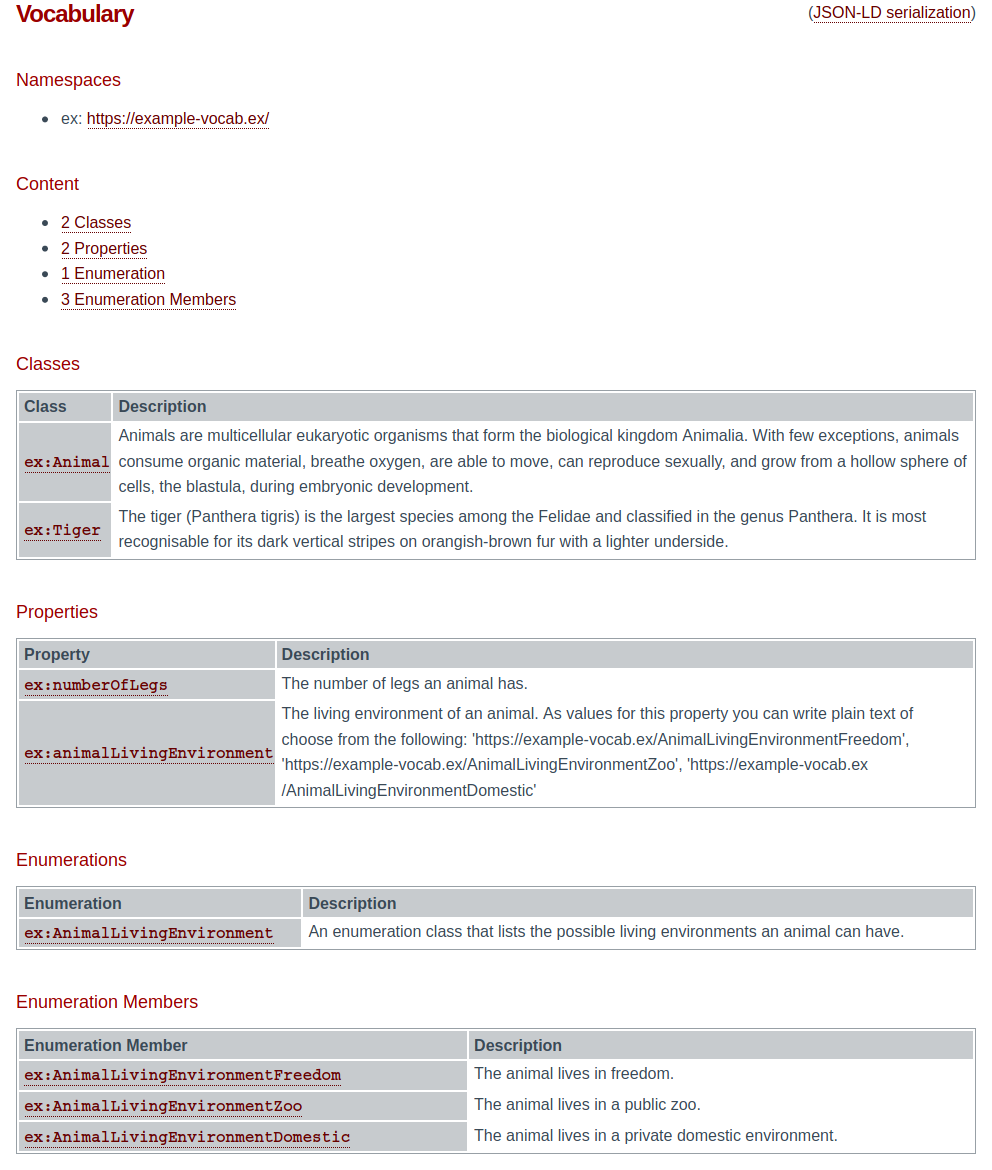
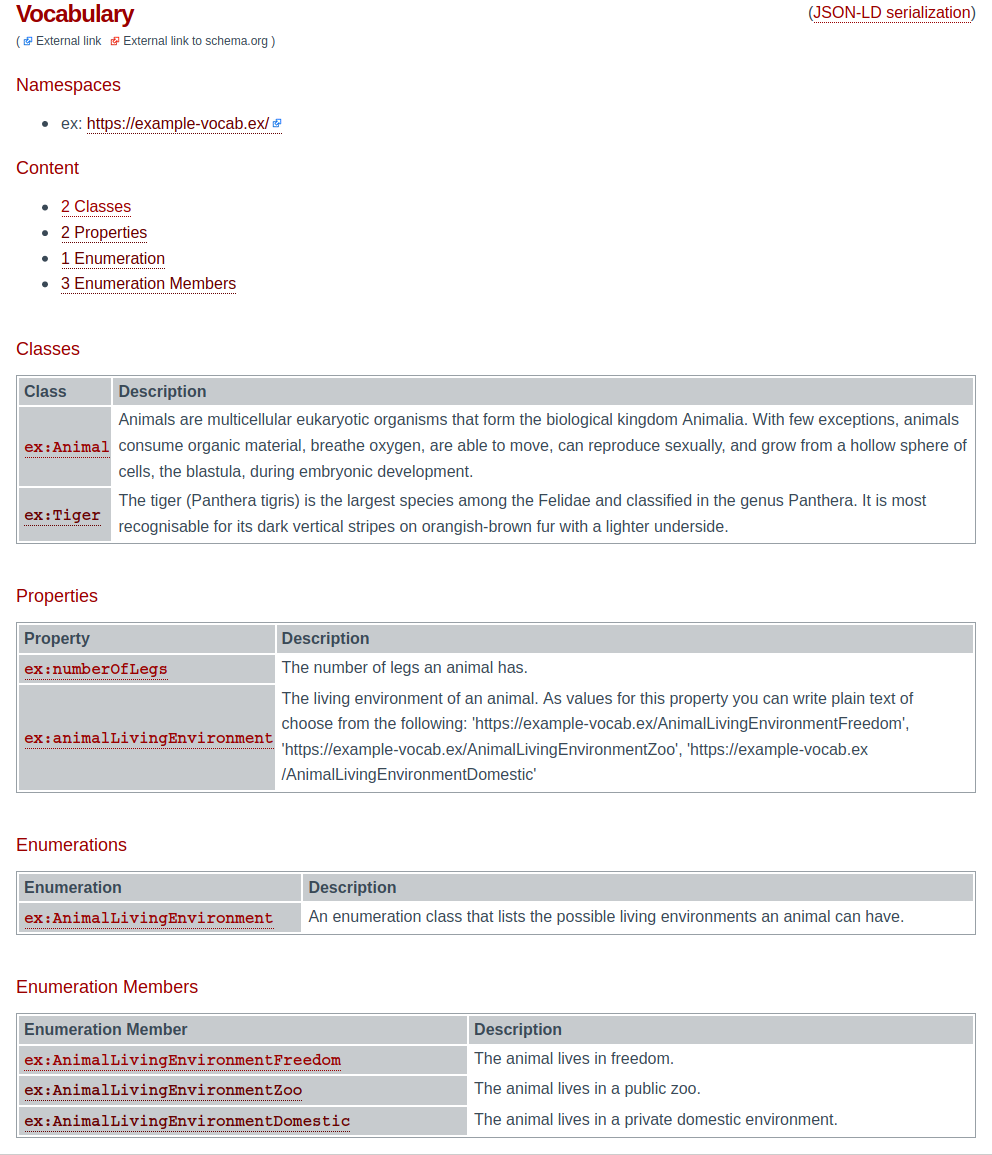
Version 1.0.2

diff --git a/dist/schema-org-vocab-browser.min.js b/dist/schema-org-vocab-browser.min.js
@@ -271,7 +271,7 @@ var nextTick=require("process/browser.js").nextTick,apply=Function.prototype.app
 "use strict";class EnumerationRenderer{constructor(e){this.browser=e,this.util=this.browser.util}render(){var e=this.util.getTypeStructure(this.browser.term),r=this.util.createHeader(e,"rdfs:subClassOf")+this.createEnumerationMembers()+this.util.createRangesOf(!0);this.browser.elem.innerHTML=this.util.createMainContent("rdfs:Class",r)}createEnumerationMembers(){var e=this.browser.term.getEnumerationMembers();return 0!==e.length?'An Enumeration with:<br><b><a id="enumbers" title="Link: #enumbers" href="#enumbers" class="clickableAnchor">Enumeration members</a></b><ul>'+e.map(e=>"<li>"+this.util.createLink(e)+"</li>").join("")+"</ul><br>":""}}module.exports=EnumerationRenderer;
 
 },{}],88:[function(require,module,exports){
-"use strict";class ListRenderer{constructor(e){this.browser=e,this.util=this.browser.util}render(){var e=this.createHeader()+this.createVocabsTable();this.browser.elem.innerHTML=this.util.createMainContent("schema:DataSet",e)}createHeader(){return"<h1>"+this.browser.list["schema:name"]+"</h1>"}createVocabsTable(){return this.util.createDefinitionTable(["Name","IRI","Author","Description"],this.createVocabsTbody(),{class:"supertype"})}createVocabsTbody(){return this.browser.list["schema:hasPart"].map(e=>this.util.createTableRow("http://vocab.sti2.at/ds/Vocabulary",e["@id"],"schema:name",this.util.createJSLink("voc",e["@id"].split("/").pop(),e["schema:name"]||"No Name"),this.createVocabsSideCols(e))).join("")}createVocabsSideCols(e){return'<td property="@id">'+this.util.createExternalLink(e["@id"])+'</td><td property="schema:author">'+(e["schema:author"]&&e["schema:author"]["schema:name"]||"")+'</td><td property="schema:description">'+(e["schema:description"]||"")+"</td>"}}module.exports=ListRenderer;
+"use strict";class ListRenderer{constructor(e){this.browser=e,this.util=this.browser.util}render(){var e=this.createHeader()+this.createVocabsTable();this.browser.elem.innerHTML=this.util.createMainContent("schema:DataSet",e)}createHeader(){return"<h1>"+this.browser.list["schema:name"]+"</h1>"+this.util.createExternalLinkLegend()}createVocabsTable(){return this.util.createDefinitionTable(["Name","IRI","Author","Description"],this.createVocabsTbody(),{class:"supertype"})}createVocabsTbody(){return this.browser.list["schema:hasPart"].map(e=>this.util.createTableRow("http://vocab.sti2.at/ds/Vocabulary",e["@id"],"schema:name",this.util.createJSLink("voc",e["@id"].split("/").pop(),e["schema:name"]||"No Name"),this.createVocabsSideCols(e))).join("")}createVocabsSideCols(e){return'<td property="@id">'+this.util.createExternalLink(e["@id"])+'</td><td property="schema:author">'+(e["schema:author"]&&e["schema:author"]["schema:name"]||"")+'</td><td property="schema:description">'+(e["schema:description"]||"")+"</td>"}}module.exports=ListRenderer;
 
 },{}],89:[function(require,module,exports){
 "use strict";class PropertyRenderer{constructor(e){this.browser=e,this.util=this.browser.util}render(){var e=this.createStartBreadcrumbs(),t=this.util.getTypeStructure(this.browser.term,"getSuperProperties"),r=this.util.createHeader(t,"rdfs:subPropertyOf",e)+this.createRanges()+this.createDomainIncludes()+this.createSuperproperties()+this.createSubproperties();this.browser.elem.innerHTML=this.util.createMainContent("rdf:Property",r)}createStartBreadcrumbs(){return this.util.createLink("schema:Thing")+" > "+this.util.createLink("schema:Property",{title:"Defined in section: meta.schema.org"})+" > "}createRanges(){var e=this.browser.term.getRanges(!1).map(e=>{var t={title:"The '"+this.browser.term.getIRI(!0)+"' property has values that include instances of the '"+e+"' type."};return this.util.createCodeLink(e,null,t,"rangeIncludes")}).join("<br>");return this.util.createDefinitionTable("Values expected to be one of these types","<td>"+e+"</td>")}createDomainIncludes(){var e=this.browser.term.getDomains(!1).map(e=>{var t={title:"The '"+this.browser.term.getIRI(!0)+"' property is used on the '"+e+"' type"};return this.util.createCodeLink(e,null,t,"domainIncludes")}).join("<br>");return this.util.createDefinitionTable("Used on these types","<td>"+e+"</td>")}createSuperproperties(){var e=this.browser.term.getSuperProperties(!1);return this.createRelatedProperties(e,"Super-properties")}createRelatedProperties(e,t){if(0!==e.length){var r=e.map(e=>{var t={title:e+": ''"+(this.browser.sdoAdapter.getProperty(e).getDescription()||"")+"''"};return this.util.createCodeLink(e,null,t)}).join("<br>");return this.util.createDefinitionTable(t,"<td>"+r+"</td>")}return""}createSubproperties(){var e=this.browser.term.getSubProperties(!1);return this.createRelatedProperties(e,"Sub-properties")}}module.exports=PropertyRenderer;
@@ -280,10 +280,10 @@ var nextTick=require("process/browser.js").nextTick,apply=Function.prototype.app
 "use strict";var _schemaOrgAdapter=_interopRequireDefault(require("schema-org-adapter")),_Util=_interopRequireDefault(require("./Util")),_ListRenderer=_interopRequireDefault(require("./ListRenderer")),_VocabRenderer=_interopRequireDefault(require("./VocabRenderer")),_ClassRenderer=_interopRequireDefault(require("./ClassRenderer")),_PropertyRenderer=_interopRequireDefault(require("./PropertyRenderer")),_EnumerationRenderer=_interopRequireDefault(require("./EnumerationRenderer")),_EnumerationMemberRenderer=_interopRequireDefault(require("./EnumerationMemberRenderer")),_DataTypeRenderer=_interopRequireDefault(require("./DataTypeRenderer"));function _interopRequireDefault(e){return e&&e.__esModule?e:{default:e}}function asyncGeneratorStep(e,r,t,n,a,i,s){try{var o=e[i](s),d=o.value}catch(e){return void t(e)}o.done?r(d):Promise.resolve(d).then(n,a)}function _asyncToGenerator(e){return function(){var r=this,t=arguments;return new Promise(function(n,a){var i=e.apply(r,t);function s(e){asyncGeneratorStep(i,n,a,s,o,"next",e)}function o(e){asyncGeneratorStep(i,n,a,s,o,"throw",e)}s(void 0)})}}var BROWSER_TYPES={VOCAB:"VOCAB",LIST:"LIST"};class SDOVocabBrowser{constructor(e,r){var t=this,n=arguments.length>2&&void 0!==arguments[2]?arguments[2]:BROWSER_TYPES.VOCAB;this.elem=e,this.vocabOrList=r,this.type=n,this.util=new _Util.default(this),this.listRenderer=new _ListRenderer.default(this),this.vocabRenderer=new _VocabRenderer.default(this),this.classRenderer=new _ClassRenderer.default(this),this.propertyRenderer=new _PropertyRenderer.default(this),this.enumerationRenderer=new _EnumerationRenderer.default(this),this.enumerationMemberRenderer=new _EnumerationMemberRenderer.default(this),this.dataTypeRenderer=new _DataTypeRenderer.default(this),window.addEventListener("popstate",_asyncToGenerator(function*(){yield t.render()}))}render(){var e=this;return _asyncToGenerator(function*(){if(e.elem.innerHTML='<img src="https://raw.githubusercontent.com/semantifyit/schema-org-vocab-browser/main/images/loading.gif" alt="Loading Animation" style="margin-top: 6px">',yield e.init(),e.isListRendering())e.listRenderer.render();else if(e.isVocabRendering()){var r=new URLSearchParams(window.location.search).get("format");r&&"jsonld"===r?e.vocabRenderer.renderJsonld():e.vocabRenderer.render()}else e.isTermRendering()&&e.renderTerm();e.addJSLinkEventListener(),document.body.scrollTop=document.documentElement.scrollTop=0})()}init(){var e=this;return _asyncToGenerator(function*(){e.listNeedsInit()&&(yield e.initList()),e.vocabNeedsInit()&&(yield e.initVocab())})()}listNeedsInit(){return this.type===BROWSER_TYPES.LIST&&!this.list}initList(){var e=this;return _asyncToGenerator(function*(){e.list=yield e.util.parseToObject(e.vocabOrList)})()}vocabNeedsInit(){var e=new URLSearchParams(window.location.search).get("voc");return this.type===BROWSER_TYPES.LIST&&e&&e!==this.vocUID||this.type===BROWSER_TYPES.VOCAB&&!this.vocab}initVocab(){var e=this;return _asyncToGenerator(function*(){if(e.type===BROWSER_TYPES.VOCAB)e.vocab=yield e.util.parseToObject(e.vocabOrList);else if(e.type===BROWSER_TYPES.LIST){var r=new URLSearchParams(window.location.search);for(var t of(e.vocUID=r.get("voc"),e.list["schema:hasPart"])){var n=t["@id"];if(n.split("/").pop()===e.vocUID){e.vocab=yield e.util.parseToObject(n),e.vocName=t["schema:name"];break}}}yield e.initSDOAdapter()})()}initSDOAdapter(){var e=this;return _asyncToGenerator(function*(){e.sdoAdapter=new _schemaOrgAdapter.default;var r=yield e.sdoAdapter.constructSDOVocabularyURL("latest");yield e.sdoAdapter.addVocabularies([r,e.vocab]),e.namespaces=e.sdoAdapter.getVocabularies(),delete e.namespaces.schema;var t=Object.keys(e.namespaces);e.classes=e.sdoAdapter.getListOfClasses({fromVocabulary:t}),e.properties=e.sdoAdapter.getListOfProperties({fromVocabulary:t}),e.enumerations=e.sdoAdapter.getListOfEnumerations({fromVocabulary:t}),e.enumerationMembers=e.sdoAdapter.getListOfEnumerationMembers({fromVocabulary:t}),e.dataTypes=e.sdoAdapter.getListOfDataTypes({fromVocabulary:t})})()}isListRendering(){var e=new URLSearchParams(window.location.search);return this.type===BROWSER_TYPES.LIST&&!e.get("voc")}isVocabRendering(){var e=new URLSearchParams(window.location.search);return this.type===BROWSER_TYPES.LIST&&e.get("voc")&&!e.get("term")||this.type===BROWSER_TYPES.VOCAB&&!e.get("term")}isTermRendering(){return null!==new URLSearchParams(window.location.search).get("term")}renderTerm(){var e=new URLSearchParams(window.location.search);switch(this.term=this.sdoAdapter.getTerm(e.get("term")),this.term.getTermType()){case"rdfs:Class":this.classRenderer.render();break;case"rdf:Property":this.propertyRenderer.render();break;case"schema:Enumeration":this.enumerationRenderer.render();break;case"soa:EnumerationMember":this.enumerationMemberRenderer.render();break;case"schema:DataType":this.dataTypeRenderer.render()}}addJSLinkEventListener(){var e=this,r=this.elem.getElementsByClassName("a-js-link"),t=function(r){r.addEventListener("click",function(){var t=_asyncToGenerator(function*(t){t.ctrlKey?window.open(r.href):(history.pushState(null,null,r.href),yield e.render())});return function(e){return t.apply(this,arguments)}}())};for(var n of r)t(n)}}module.exports=SDOVocabBrowser;
 
 },{"./ClassRenderer":84,"./DataTypeRenderer":85,"./EnumerationMemberRenderer":86,"./EnumerationRenderer":87,"./ListRenderer":88,"./PropertyRenderer":89,"./Util":91,"./VocabRenderer":92,"schema-org-adapter":78}],91:[function(require,module,exports){
-"use strict";function asyncGeneratorStep(e,t,r,a,s,n,i){try{var o=e[n](i),c=o.value}catch(e){return void r(e)}o.done?t(c):Promise.resolve(c).then(a,s)}function _asyncToGenerator(e){return function(){var t=this,r=arguments;return new Promise(function(a,s){var n=e.apply(t,r);function i(e){asyncGeneratorStep(n,a,s,i,o,"next",e)}function o(e){asyncGeneratorStep(n,a,s,i,o,"throw",e)}i(void 0)})}}class Util{constructor(e){this.browser=e}parseToObject(e){var t=this;return _asyncToGenerator(function*(){var r;return t.isString(e)?(r=t.isValidUrl(e)?yield t.getJsonld(e):e,JSON.parse(r)):e})()}isString(e){return"string"==typeof e||e instanceof String}isValidUrl(e){try{new URL(e)}catch(e){return!1}return!0}getJsonld(e){return new Promise(function(t,r){var a=new XMLHttpRequest;a.open("GET",e),a.setRequestHeader("Accept","application/ld+json"),a.onload=function(){this.status>=200&&this.status<300?t(a.response):r({status:this.status,statusText:a.statusText})},a.onerror=function(){r({status:this.status,statusText:a.statusText})},a.send()})}createIriWithQueryParam(e,t){var r=new URLSearchParams(window.location.search);t&&""!==t?r.set(e,t):r.delete(e);var a=r.toString();return window.location.protocol+"//"+(window.location.host?window.location.host:"")+window.location.pathname+(""!==a?"?"+a:"")}createTableRow(e,t,r,a,s){var n=arguments.length>5&&void 0!==arguments[5]?arguments[5]:null;return'<tr typeof="'+e+'" resource="'+t+'">'+this.createMainCol(r,a,n)+s+"</tr>"}createMainCol(e,t){var r=arguments.length>2&&void 0!==arguments[2]?arguments[2]:null;return"<th"+(r?' class="'+r+'"':"")+' scope="row">'+this.createCodeLink(t,{property:e})+"</th>"}createCodeLink(e){var t=arguments.length>1&&void 0!==arguments[1]?arguments[1]:null,r=arguments.length>2&&void 0!==arguments[2]?arguments[2]:null,a=arguments.length>3&&void 0!==arguments[3]?arguments[3]:null;return"<code"+this.createHtmlAttr(t)+">"+this.createFullLink(e,r,a)+"</code>"}createFullLink(e,t,r){var a=null;try{a=this.browser.sdoAdapter.getTerm(e)}catch(e){}return""+(r?this.createSemanticLink(r,e):"")+(a?this.createLink(e,t):e)}createJSLink(e,t){var r=arguments.length>2&&void 0!==arguments[2]?arguments[2]:null,a=arguments.length>3&&void 0!==arguments[3]?arguments[3]:null,s=this.createIriWithQueryParam(e,t);return'<a class="a-js-link" href="'+this.escHtml(s)+'" onclick="return false;"'+this.createHtmlAttr(a)+">"+(r?this.escHtml(r):this.escHtml(t))+"</a>"}escHtml(e){return e.replace(/&/g,"&amp;").replace(/</g,"&lt;").replace(/>/g,"&gt;").replace(/"/g,"&quot;").replace(/'/g,"&#039;")}createHtmlAttr(e){return e?Object.entries(e).map(e=>" "+this.escHtml(e[0])+'="'+this.escHtml(e[1])+'"').join(""):""}createExternalLink(e){var t=arguments.length>1&&void 0!==arguments[1]?arguments[1]:null,r=arguments.length>2&&void 0!==arguments[2]?arguments[2]:null;return'<a href="'+this.escHtml(e)+'" target="_blank"'+this.createHtmlAttr(r)+">"+(t?this.prettyPrintIri(t):this.prettyPrintIri(e))+"</a>"}prettyPrintIri(e){return e.startsWith("schema:")?e.substring("schema:".length):this.escHtml(e)}createMainContent(e,t){return'<div id="mainContent" vocab="http://schema.org/" typeof="'+e+'" resource="'+window.location+'">'+t+"</div>"}underscore(e){return e.replace(/ /g,"_")}getTypeStructure(e){var t=arguments.length>1&&void 0!==arguments[1]?arguments[1]:"getSuperClasses",r=e[t](!1);if(0===r.length)return[[e.getIRI(!0)]];var a=[];return r.forEach(r=>{var s=this.browser.sdoAdapter.getTerm(r);this.getTypeStructure(s,t).forEach(t=>{t.push(e.getIRI(!0)),a.push(t)})}),a}createHeader(e,t){var r=arguments.length>2&&void 0!==arguments[2]?arguments[2]:"",a=arguments.length>3&&void 0!==arguments[3]?arguments[3]:"",s=this.browser.term;return'<span style="float: right;">'+(this.browser.vocName?"(from Vocabulary: "+this.createJSLink("term",null,this.browser.vocName)+")":"(go to "+this.createJSLink("term",null,"Vocabulary")+")")+'</span><h1 property="rdfs:label" class="page-title">'+s.getIRI(!0)+"</h1>"+this.createTypeStructureBreadcrumbs(e,t,r,a)+'</h4><div property="rdfs:comment">'+(s.getDescription()||"")+"<br><br></div>"}createTypeStructureBreadcrumbs(e,t,r,a){return"<h4>"+e.map(e=>'<span class="breadcrumbs">'+r+e.map((r,s)=>{var n="";return(""===a&&s+2===e.length||""!==a&&s+1===e.length)&&(n+=this.createSemanticLink(t,r)),n+=this.createLink(r)}).join(" > ")+a+"</span>").join("<br>")+"</h4>"}createSemanticLink(e,t){return'<link property="'+this.escHtml(e)+'" href="'+this.escHtml(this.createHref(t))+'">'}createHref(e){return this.isTermOfVocab(e)?this.createIriWithQueryParam("term",e):this.browser.sdoAdapter.getTerm(e).getIRI()}isTermOfVocab(e){return this.browser.vocab&&(this.browser.classes.includes(e)||this.browser.properties.includes(e)||this.browser.enumerations.includes(e)||this.browser.enumerationMembers.includes(e)||this.browser.dataTypes.includes(e))}createLink(e){var t=arguments.length>1&&void 0!==arguments[1]?arguments[1]:null;return this.isTermOfVocab(e)?this.createJSLink("term",e,null,t):this.createExternalLink(this.createHref(e),e,t)}createPropertyTableRow(e){var t=arguments.length>1&&void 0!==arguments[1]&&arguments[1];return this.createTableRow("rdfs:Property",this.createHref(e),"rdfs:label",this.createLink(e),this.createPropertySideCols(e,t),"prop-name")}createPropertySideCols(e,t){var r=this.browser.sdoAdapter.getProperty(e);return'<td class="prop-etc">'+this.createPropertyRange(r,t)+'</td><td class="prop-desc" property="rdfs:comment">'+(r.getDescription()||"")+"</td>"}createPropertyRange(e,t){var r="";return t||(r=e.getRanges(!1).map(e=>this.createSemanticLink("rangeIncludes",e)+this.createLink(e)).join("&nbsp; or <br>")),r+e.getDomains(!1).map(e=>this.createSemanticLink("domainIncludes",e)+(t?this.createLink(e):"")).join(t?"&nbsp; or <br>":"")}createDefinitionTable(e,t){var r=arguments.length>2&&void 0!==arguments[2]?arguments[2]:null;return Array.isArray(e)||(e=[e]),Array.isArray(t)||(t=[t]),'<table class="definition-table"><thead><tr>'+e.map(e=>"<th>"+e+"</th>").join("")+"</tr></thead><tbody"+this.createHtmlAttr(r)+">"+(t[0].startsWith("<tr")?t.join(""):t.map(e=>"<tr>"+e+"</tr>").join(""))+"</tbody></table>"}createRangesOf(){var e=arguments.length>0&&void 0!==arguments[0]&&arguments[0],t=this.browser.term.isRangeOf(!1);if(0!==t.length){var r=t.map(e=>this.createPropertyTableRow(e,!0));return'<div id="incoming">Instances of '+this.createLink(this.browser.term.getIRI(!0))+(e?" and its enumeration members or subtypes":"")+" may appear as a value for the following properties</div><br>"+this.createDefinitionTable(["Property","On Types","Description"],r)}return""}}module.exports=Util;
+"use strict";function asyncGeneratorStep(e,t,r,n,a,i,s){try{var o=e[i](s),c=o.value}catch(e){return void r(e)}o.done?t(c):Promise.resolve(c).then(n,a)}function _asyncToGenerator(e){return function(){var t=this,r=arguments;return new Promise(function(n,a){var i=e.apply(t,r);function s(e){asyncGeneratorStep(i,n,a,s,o,"next",e)}function o(e){asyncGeneratorStep(i,n,a,s,o,"throw",e)}s(void 0)})}}class Util{constructor(e){this.browser=e}parseToObject(e){var t=this;return _asyncToGenerator(function*(){var r;return t.isString(e)?(r=t.isValidUrl(e)?yield t.getJsonld(e):e,JSON.parse(r)):e})()}isString(e){return"string"==typeof e||e instanceof String}isValidUrl(e){try{new URL(e)}catch(e){return!1}return!0}getJsonld(e){return new Promise(function(t,r){var n=new XMLHttpRequest;n.open("GET",e),n.setRequestHeader("Accept","application/ld+json"),n.onload=function(){this.status>=200&&this.status<300?t(n.response):r({status:this.status,statusText:n.statusText})},n.onerror=function(){r({status:this.status,statusText:n.statusText})},n.send()})}createIriWithQueryParam(e,t){var r=new URLSearchParams(window.location.search);t&&""!==t?r.set(e,t):r.delete(e);var n=r.toString();return window.location.protocol+"//"+(window.location.host?window.location.host:"")+window.location.pathname+(""!==n?"?"+n:"")}createTableRow(e,t,r,n,a){var i=arguments.length>5&&void 0!==arguments[5]?arguments[5]:null;return'<tr typeof="'+e+'" resource="'+t+'">'+this.createMainCol(r,n,i)+a+"</tr>"}createMainCol(e,t){var r=arguments.length>2&&void 0!==arguments[2]?arguments[2]:null;return"<th"+(r?' class="'+r+'"':"")+' scope="row">'+this.createCodeLink(t,{property:e})+"</th>"}createCodeLink(e){var t=arguments.length>1&&void 0!==arguments[1]?arguments[1]:null,r=arguments.length>2&&void 0!==arguments[2]?arguments[2]:null,n=arguments.length>3&&void 0!==arguments[3]?arguments[3]:null;return"<code"+this.createHtmlAttr(t)+">"+this.createFullLink(e,r,n)+"</code>"}createFullLink(e,t,r){var n=null;try{n=this.browser.sdoAdapter.getTerm(e)}catch(e){}return""+(r?this.createSemanticLink(r,e):"")+(n?this.createLink(e,t):e)}createJSLink(e,t){var r=arguments.length>2&&void 0!==arguments[2]?arguments[2]:null,n=arguments.length>3&&void 0!==arguments[3]?arguments[3]:null,a=this.createIriWithQueryParam(e,t);return'<a class="a-js-link" href="'+this.escHtml(a)+'" onclick="return false;"'+this.createHtmlAttr(n)+">"+(r?this.escHtml(r):this.escHtml(t))+"</a>"}escHtml(e){return e.replace(/&/g,"&amp;").replace(/</g,"&lt;").replace(/>/g,"&gt;").replace(/"/g,"&quot;").replace(/'/g,"&#039;")}createHtmlAttr(e){return e?Object.entries(e).map(e=>" "+this.escHtml(e[0])+'="'+this.escHtml(e[1])+'"').join(""):""}createExternalLink(e){var t=arguments.length>1&&void 0!==arguments[1]?arguments[1]:null,r=arguments.length>2&&void 0!==arguments[2]?arguments[2]:null,n=" "+this.createExternalLinkStyle(e);return r?r.hasOwnProperty("style")?r.style=r.style+n:r.style=n:r={style:n},'<a href="'+this.escHtml(e)+'" target="_blank"'+this.createHtmlAttr(r)+">"+(t?this.prettyPrintIri(t):this.prettyPrintIri(e))+"</a>"}createExternalLinkStyle(e){var t="background-position: center right; background-repeat: no-repeat; background-size: 10px 10px; padding-right: 13px; ";return-1===e.indexOf("https://schema.org")&&-1===e.indexOf("http://schema.org")?t+="background-image: url(https://raw.githubusercontent.com/semantifyit/schema-org-vocab-browser/main/images/external-link-icon-blue.png);":t+="background-image: url(https://raw.githubusercontent.com/semantifyit/schema-org-vocab-browser/main/images/external-link-icon-red.png);",t}prettyPrintIri(e){return e.startsWith("schema:")?e.substring("schema:".length):this.escHtml(e)}createMainContent(e,t){return'<div id="mainContent" vocab="http://schema.org/" typeof="'+e+'" resource="'+window.location+'">'+t+"</div>"}underscore(e){return e.replace(/ /g,"_")}getTypeStructure(e){var t=arguments.length>1&&void 0!==arguments[1]?arguments[1]:"getSuperClasses",r=e[t](!1);if(0===r.length)return[[e.getIRI(!0)]];var n=[];return r.forEach(r=>{var a=this.browser.sdoAdapter.getTerm(r);this.getTypeStructure(a,t).forEach(t=>{t.push(e.getIRI(!0)),n.push(t)})}),n}createHeader(e,t){var r=arguments.length>2&&void 0!==arguments[2]?arguments[2]:"",n=arguments.length>3&&void 0!==arguments[3]?arguments[3]:"",a=this.browser.term;return'<span style="float: right;">'+(this.browser.vocName?"(from Vocabulary: "+this.createJSLink("term",null,this.browser.vocName)+")":"(go to "+this.createJSLink("term",null,"Vocabulary")+")")+'</span><h1 property="rdfs:label" class="page-title">'+a.getIRI(!0)+"</h1>"+this.createExternalLinkLegend()+this.createTypeStructureBreadcrumbs(e,t,r,n)+'</h4><div property="rdfs:comment">'+(a.getDescription()||"")+"<br><br></div>"}createExternalLinkLegend(){return'<p style="font-size: 12px; margin-top: 0">(<span style="'+("margin-right: 3px; "+this.createExternalLinkStyle(""))+'"></span>External link<span style="'+("margin-right: 3px; "+this.createExternalLinkStyle("https://schema.org")+" margin-left: 6px;")+'"></span>External link to schema.org )</p>'}createTypeStructureBreadcrumbs(e,t,r,n){return"<h4>"+e.map(e=>'<span class="breadcrumbs">'+r+e.map((r,a)=>{var i="";return(""===n&&a+2===e.length||""!==n&&a+1===e.length)&&(i+=this.createSemanticLink(t,r)),i+=this.createLink(r)}).join(" > ")+n+"</span>").join("<br>")+"</h4>"}createSemanticLink(e,t){return'<link property="'+this.escHtml(e)+'" href="'+this.escHtml(this.createHref(t))+'">'}createHref(e){return this.isTermOfVocab(e)?this.createIriWithQueryParam("term",e):this.browser.sdoAdapter.getTerm(e).getIRI()}isTermOfVocab(e){return this.browser.vocab&&(this.browser.classes.includes(e)||this.browser.properties.includes(e)||this.browser.enumerations.includes(e)||this.browser.enumerationMembers.includes(e)||this.browser.dataTypes.includes(e))}createLink(e){var t=arguments.length>1&&void 0!==arguments[1]?arguments[1]:null;return this.isTermOfVocab(e)?this.createJSLink("term",e,null,t):this.createExternalLink(this.createHref(e),e,t)}createPropertyTableRow(e){var t=arguments.length>1&&void 0!==arguments[1]&&arguments[1];return this.createTableRow("rdfs:Property",this.createHref(e),"rdfs:label",this.createLink(e),this.createPropertySideCols(e,t),"prop-name")}createPropertySideCols(e,t){var r=this.browser.sdoAdapter.getProperty(e);return'<td class="prop-etc">'+this.createPropertyRange(r,t)+'</td><td class="prop-desc" property="rdfs:comment">'+(r.getDescription()||"")+"</td>"}createPropertyRange(e,t){var r="";return t||(r=e.getRanges(!1).map(e=>this.createSemanticLink("rangeIncludes",e)+this.createLink(e)).join("&nbsp; or <br>")),r+e.getDomains(!1).map(e=>this.createSemanticLink("domainIncludes",e)+(t?this.createLink(e):"")).join(t?"&nbsp; or <br>":"")}createDefinitionTable(e,t){var r=arguments.length>2&&void 0!==arguments[2]?arguments[2]:null;return Array.isArray(e)||(e=[e]),Array.isArray(t)||(t=[t]),'<table class="definition-table"><thead><tr>'+e.map(e=>"<th>"+e+"</th>").join("")+"</tr></thead><tbody"+this.createHtmlAttr(r)+">"+(t[0].startsWith("<tr")?t.join(""):t.map(e=>"<tr>"+e+"</tr>").join(""))+"</tbody></table>"}createRangesOf(){var e=arguments.length>0&&void 0!==arguments[0]&&arguments[0],t=this.browser.term.isRangeOf(!1);if(0!==t.length){var r=t.map(e=>this.createPropertyTableRow(e,!0));return'<div id="incoming">Instances of '+this.createLink(this.browser.term.getIRI(!0))+(e?" and its enumeration members or subtypes":"")+" may appear as a value for the following properties</div><br>"+this.createDefinitionTable(["Property","On Types","Description"],r)}return""}}module.exports=Util;
 
 },{}],92:[function(require,module,exports){
-"use strict";var TYPES_PLURAL={Class:"Classes",Property:"Properties",Enumeration:"Enumerations","Enumeration Member":"Enumeration Members","Data Type":"Data Types"};class VocabRenderer{constructor(e){this.browser=e,this.util=this.browser.util}renderJsonld(){this.browser.elem.innerHTML='<pre style="font-size: medium; background: none; text-align: left; width: auto; padding: 0; overflow: visible; color: rgb(0, 0, 0); line-height: normal; display: block; font-family: monospace; margin: 1em 0; word-wrap: break-word; white-space: pre-wrap;">'+JSON.stringify(this.browser.vocab,null,2)+"</pre>"}render(){var e=this.createHeading()+this.createContentSection()+this.createSection(this.browser.classes,"Class")+this.createSection(this.browser.properties,"Property")+this.createSection(this.browser.enumerations,"Enumeration")+this.createSection(this.browser.enumerationMembers,"Enumeration Member")+this.createSection(this.browser.dataTypes,"Data Type");this.browser.elem.innerHTML=this.util.createMainContent("schema:DataSet",e)}createHeading(){return'<span style="float: right;">('+this.util.createJSLink("format","jsonld","JSON-LD serialization")+(this.browser.list?" | from List: "+this.util.createJSLink("voc",null,this.browser.list["schema:name"]):"")+")</span><h1>"+(this.browser.vocName?this.browser.vocName:"Vocabulary")+"</h1><h2>Namespaces</h2><ul>"+Object.entries(this.browser.namespaces).map(e=>"<li>"+e[0]+": "+this.util.createExternalLink(e[1])+"</li>").join("")+"</ul>"}createContentSection(){return"<h2>Content</h2><ul>"+this.createContentListElement(this.browser.classes,"Class")+this.createContentListElement(this.browser.properties,"Property")+this.createContentListElement(this.browser.enumerations,"Enumeration")+this.createContentListElement(this.browser.enumerationMembers,"Enumeration Member")+this.createContentListElement(this.browser.dataTypes,"Data Type")+"</ul>"}createContentListElement(e,t){if(0!==e.length){var r=TYPES_PLURAL[t];return'<li><a href="#'+this.util.underscore(r)+'">'+e.length+" "+(1===e.length?t:r)+"</a></li>"}return""}createSection(e,t){if(0!==e.length){var r=TYPES_PLURAL[t];return'<h2 id="'+this.util.underscore(r)+'">'+r+"</h2>"+this.util.createDefinitionTable([t,"Description"],this.createSectionTbody(e),{class:"supertype"})}return""}createSectionTbody(e){return e.map(e=>{var t=this.browser.sdoAdapter.getTerm(e);return this.util.createTableRow(t.getTermType(),this.util.createIriWithQueryParam("term",e),"@id",this.util.createJSLink("term",e),'<td property="rdfs:comment">'+(t.getDescription()||"")+"</td>")}).join("")}}module.exports=VocabRenderer;
+"use strict";var TYPES_PLURAL={Class:"Classes",Property:"Properties",Enumeration:"Enumerations","Enumeration Member":"Enumeration Members","Data Type":"Data Types"};class VocabRenderer{constructor(e){this.browser=e,this.util=this.browser.util}renderJsonld(){this.browser.elem.innerHTML='<pre style="font-size: medium; background: none; text-align: left; width: auto; padding: 0; overflow: visible; color: rgb(0, 0, 0); line-height: normal; display: block; font-family: monospace; margin: 1em 0; word-wrap: break-word; white-space: pre-wrap;">'+JSON.stringify(this.browser.vocab,null,2)+"</pre>"}render(){var e=this.createHeading()+this.createNamespaces()+this.createContentSection()+this.createSection(this.browser.classes,"Class")+this.createSection(this.browser.properties,"Property")+this.createSection(this.browser.enumerations,"Enumeration")+this.createSection(this.browser.enumerationMembers,"Enumeration Member")+this.createSection(this.browser.dataTypes,"Data Type");this.browser.elem.innerHTML=this.util.createMainContent("schema:DataSet",e)}createHeading(){return'<span style="float: right;">('+this.util.createJSLink("format","jsonld","JSON-LD serialization")+(this.browser.list?" | from List: "+this.util.createJSLink("voc",null,this.browser.list["schema:name"]):"")+")</span><h1>"+(this.browser.vocName?this.browser.vocName:"Vocabulary")+"</h1>"+this.util.createExternalLinkLegend()}createNamespaces(){return'<h2 style="margin: revert;">Namespaces</h2><ul>'+Object.entries(this.browser.namespaces).map(e=>"<li>"+e[0]+": "+this.util.createExternalLink(e[1])+"</li>").join("")+"</ul>"}createContentSection(){return'<h2 style="margin: revert;">Content</h2><ul>'+this.createContentListElement(this.browser.classes,"Class")+this.createContentListElement(this.browser.properties,"Property")+this.createContentListElement(this.browser.enumerations,"Enumeration")+this.createContentListElement(this.browser.enumerationMembers,"Enumeration Member")+this.createContentListElement(this.browser.dataTypes,"Data Type")+"</ul>"}createContentListElement(e,t){if(0!==e.length){var r=TYPES_PLURAL[t];return'<li><a href="#'+this.util.underscore(r)+'">'+e.length+" "+(1===e.length?t:r)+"</a></li>"}return""}createSection(e,t){if(0!==e.length){var r=TYPES_PLURAL[t];return'<h2 id="'+this.util.underscore(r)+'">'+r+"</h2>"+this.util.createDefinitionTable([t,"Description"],this.createSectionTbody(e),{class:"supertype"})}return""}createSectionTbody(e){return e.map(e=>{var t=this.browser.sdoAdapter.getTerm(e);return this.util.createTableRow(t.getTermType(),this.util.createIriWithQueryParam("term",e),"@id",this.util.createJSLink("term",e),'<td property="rdfs:comment">'+(t.getDescription()||"")+"</td>")}).join("")}}module.exports=VocabRenderer;
 
 },{}]},{},[90])(90)
 });

diff --git a/dist/schema-org-vocab-browser.js b/dist/schema-org-vocab-browser.js
@@ -20741,7 +20741,7 @@ class ListRenderer {
 
 
   createHeader() {
-    return '<h1>' + this.browser.list['schema:name'] + '</h1>';
+    return '' + '<h1>' + this.browser.list['schema:name'] + '</h1>' + this.util.createExternalLinkLegend();
   }
   /**
    * Create HTML table for the vocabularies of the List.
@@ -21479,7 +21479,7 @@ class Util {
     }
   }
   /**
-   * Create a HTML link to on external IRI.
+   * Create a HTML link to an external IRI.
    *
    * @param {string} href - The href value of the link.
    * @param {string|null} text - The text of the link.
@@ -21491,7 +21491,38 @@ class Util {
   createExternalLink(href) {
     var text = arguments.length > 1 && arguments[1] !== undefined ? arguments[1] : null;
     var attr = arguments.length > 2 && arguments[2] !== undefined ? arguments[2] : null;
+    var additionalStyles = ' ' + this.createExternalLinkStyle(href);
+
+    if (!attr) {
+      attr = {
+        style: additionalStyles
+      };
+    } else if (!attr.hasOwnProperty('style')) {
+      attr['style'] = additionalStyles;
+    } else {
+      attr['style'] = attr['style'] + additionalStyles;
+    }
+
     return '<a href="' + this.escHtml(href) + '" target="_blank"' + this.createHtmlAttr(attr) + '>' + (text ? this.prettyPrintIri(text) : this.prettyPrintIri(href)) + '</a>';
+  }
+  /**
+   * Create HTML attribute 'style' for an external link.
+   *
+   * @param iri - The IRI of the external link.
+   * @return {string} The resulting style attribute.
+   */
+
+
+  createExternalLinkStyle(iri) {
+    var style = '' + 'background-position: center right; ' + 'background-repeat: no-repeat; ' + 'background-size: 10px 10px; ' + 'padding-right: 13px; ';
+
+    if (iri.indexOf('https://schema.org') === -1 && iri.indexOf('http://schema.org') === -1) {
+      style += 'background-image: url(https://raw.githubusercontent.com/semantifyit/schema-org-vocab-browser/main/images/external-link-icon-blue.png);';
+    } else {
+      style += 'background-image: url(https://raw.githubusercontent.com/semantifyit/schema-org-vocab-browser/main/images/external-link-icon-red.png);';
+    }
+
+    return style;
   }
   /**
    * Replace 'schema:' and escapes characters in iri.
@@ -21581,7 +21612,20 @@ class Util {
     var breadcrumbStart = arguments.length > 2 && arguments[2] !== undefined ? arguments[2] : '';
     var breadcrumbEnd = arguments.length > 3 && arguments[3] !== undefined ? arguments[3] : '';
     var term = this.browser.term;
-    return '' + '<span style="float: right;">' + (this.browser.vocName ? '(from Vocabulary: ' + this.createJSLink('term', null, this.browser.vocName) + ')' : '(go to ' + this.createJSLink('term', null, 'Vocabulary') + ')') + '</span>' + '<h1 property="rdfs:label" class="page-title">' + term.getIRI(true) + '</h1>' + this.createTypeStructureBreadcrumbs(typeStructure, supertypeRelationship, breadcrumbStart, breadcrumbEnd) + '</h4>' + '<div property="rdfs:comment">' + (term.getDescription() || '') + '<br><br></div>';
+    return '' + '<span style="float: right;">' + (this.browser.vocName ? '(from Vocabulary: ' + this.createJSLink('term', null, this.browser.vocName) + ')' : '(go to ' + this.createJSLink('term', null, 'Vocabulary') + ')') + '</span>' + '<h1 property="rdfs:label" class="page-title">' + term.getIRI(true) + '</h1>' + this.createExternalLinkLegend() + this.createTypeStructureBreadcrumbs(typeStructure, supertypeRelationship, breadcrumbStart, breadcrumbEnd) + '</h4>' + '<div property="rdfs:comment">' + (term.getDescription() || '') + '<br><br></div>';
+  }
+  /**
+   * Create HTML for external link legend.
+   *
+   * @returns {string} The resulting HTML.
+   */
+
+
+  createExternalLinkLegend() {
+    var commonExtLinkStyle = 'margin-right: 3px; ';
+    var extLinkStyleBlue = commonExtLinkStyle + this.createExternalLinkStyle('');
+    var extLinkStyleRed = commonExtLinkStyle + this.createExternalLinkStyle('https://schema.org') + ' margin-left: 6px;';
+    return '' + '<p style="font-size: 12px; margin-top: 0">' + '(<span style="' + extLinkStyleBlue + '"></span>External link' + '<span style="' + extLinkStyleRed + '"></span>External link to schema.org )' + '</p>';
   }
   /**
    * Create HTML breadcrumbs for the type structure of a vocabulary term.
@@ -21815,7 +21859,7 @@ class VocabRenderer {
 
 
   render() {
-    var mainContent = this.createHeading() + this.createContentSection() + this.createSection(this.browser.classes, 'Class') + this.createSection(this.browser.properties, 'Property') + this.createSection(this.browser.enumerations, 'Enumeration') + this.createSection(this.browser.enumerationMembers, 'Enumeration Member') + this.createSection(this.browser.dataTypes, 'Data Type');
+    var mainContent = this.createHeading() + this.createNamespaces() + this.createContentSection() + this.createSection(this.browser.classes, 'Class') + this.createSection(this.browser.properties, 'Property') + this.createSection(this.browser.enumerations, 'Enumeration') + this.createSection(this.browser.enumerationMembers, 'Enumeration Member') + this.createSection(this.browser.dataTypes, 'Data Type');
     this.browser.elem.innerHTML = this.util.createMainContent('schema:DataSet', mainContent);
   }
   /**
@@ -21826,8 +21870,17 @@ class VocabRenderer {
 
 
   createHeading() {
-    return '' + '<span style="float: right;">' + '(' + this.util.createJSLink('format', 'jsonld', 'JSON-LD serialization') + (this.browser.list ? ' | from List: ' + this.util.createJSLink('voc', null, this.browser.list['schema:name']) : '') + ')' + '</span>' + '<h1>' + (this.browser.vocName ? this.browser.vocName : 'Vocabulary') + '</h1>' + // If there is no headline, h2 should have no margin
-    '<h2>Namespaces</h2>' + '<ul>' + Object.entries(this.browser.namespaces).map(vocab => {
+    return '' + '<span style="float: right;">' + '(' + this.util.createJSLink('format', 'jsonld', 'JSON-LD serialization') + (this.browser.list ? ' | from List: ' + this.util.createJSLink('voc', null, this.browser.list['schema:name']) : '') + ')' + '</span>' + '<h1>' + (this.browser.vocName ? this.browser.vocName : 'Vocabulary') + '</h1>' + this.util.createExternalLinkLegend();
+  }
+  /**
+   * Create HTML for the namespaces of the Vocabulary.
+   *
+   * @returns {string} The resulting HTML.
+   */
+
+
+  createNamespaces() {
+    return '' + '<h2 style="margin: revert;">Namespaces</h2>' + '<ul>' + Object.entries(this.browser.namespaces).map(vocab => {
       return '<li>' + vocab[0] + ': ' + this.util.createExternalLink(vocab[1]) + '</li>';
     }).join('') + '</ul>';
   }
@@ -21839,7 +21892,7 @@ class VocabRenderer {
 
 
   createContentSection() {
-    return '' + '<h2>Content</h2>' + '<ul>' + this.createContentListElement(this.browser.classes, 'Class') + this.createContentListElement(this.browser.properties, 'Property') + this.createContentListElement(this.browser.enumerations, 'Enumeration') + this.createContentListElement(this.browser.enumerationMembers, 'Enumeration Member') + this.createContentListElement(this.browser.dataTypes, 'Data Type') + '</ul>';
+    return '' + '<h2 style="margin: revert;">Content</h2>' + '<ul>' + this.createContentListElement(this.browser.classes, 'Class') + this.createContentListElement(this.browser.properties, 'Property') + this.createContentListElement(this.browser.enumerations, 'Enumeration') + this.createContentListElement(this.browser.enumerationMembers, 'Enumeration Member') + this.createContentListElement(this.browser.dataTypes, 'Data Type') + '</ul>';
   }
   /**
    * Create a HTML list element for a specific term type of the Vocabulary.

diff --git a/README.md b/README.md
@@ -9,7 +9,7 @@ Vocabulary Browser for schema.org based vocabularies.
 Add the bundled CDN file to your website:
 
 ``` html
-<script src="https://cdn.jsdelivr.net/npm/schema-org-vocab-browser@1.0.1/dist/schema-org-vocab-browser.min.js">
+<script src="https://cdn.jsdelivr.net/npm/schema-org-vocab-browser@1.0.2/dist/schema-org-vocab-browser.min.js">
 ```
 
 ### Installation via NPM

diff --git a/History.md b/History.md
@@ -1,3 +1,8 @@
+1.0.2 / 2020-10-21
+==================
+
+  * Add icons to external links
+
 1.0.1 / 2020-10-19
 ==================
 
